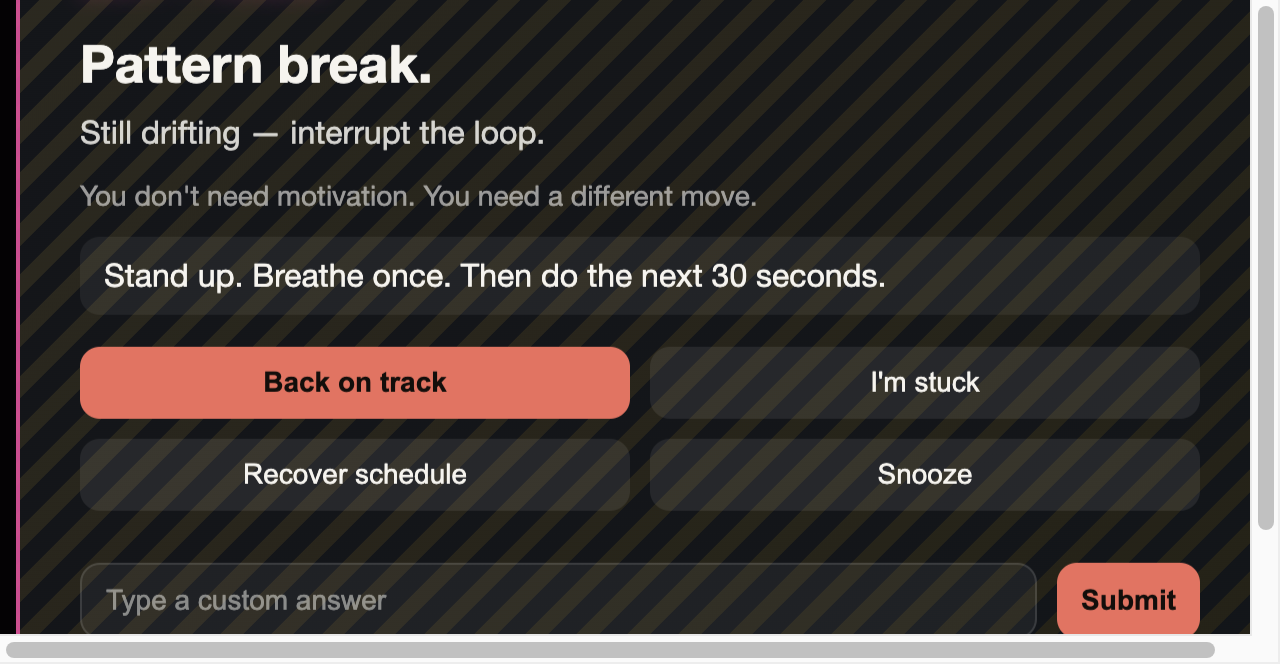
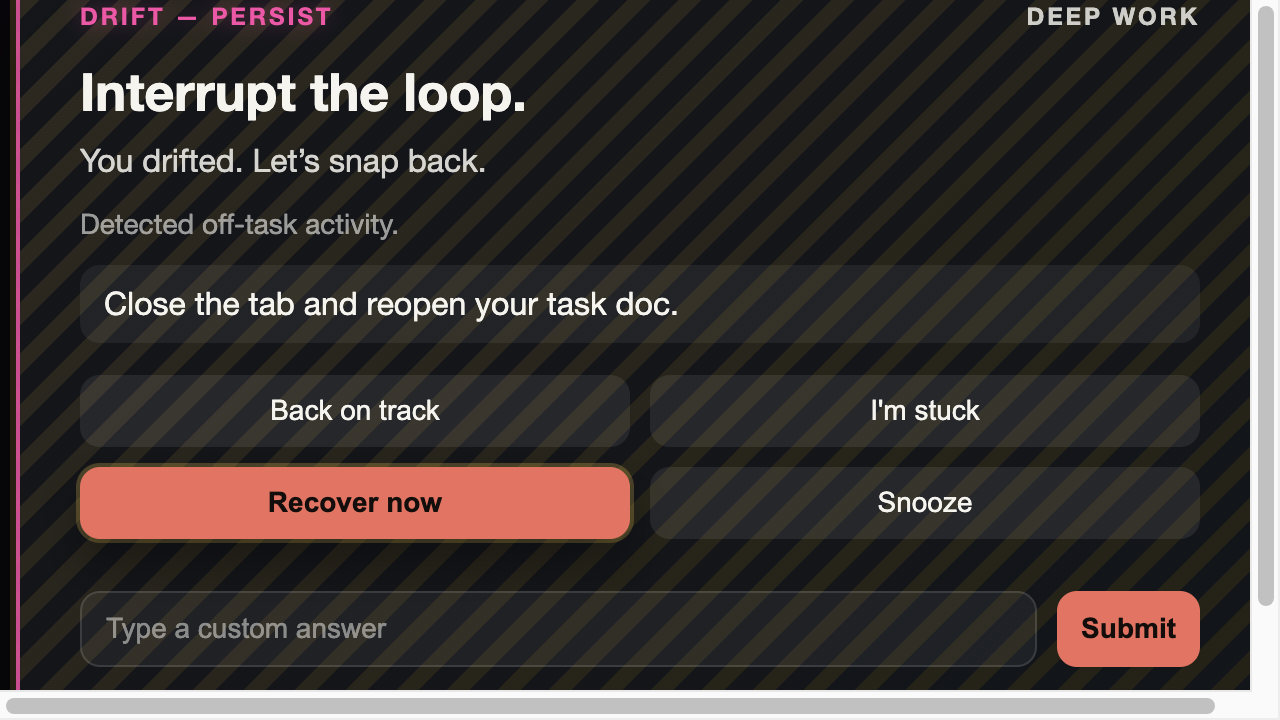
overlay: deterministic screenshots + DRIFT_PERSIST origin event capture

diff --git a/overlay/screenshot.js b/overlay/screenshot.js
@@ -34,13 +34,21 @@ async function main() {
 
   await win.loadFile(htmlPath);
 
+  // Ensure deterministic screenshots: no animations/transitions.
+  await win.webContents.insertCSS(`
+    *, *::before, *::after {
+      animation: none !important;
+      transition: none !important;
+    }
+  `);
+
   async function capture(name, payload) {
     // Give the DOM a moment to settle, then render the payload.
     await new Promise((r) => setTimeout(r, 50));
     win.webContents.send("overlay:show", payload);
 
-    // Allow any CSS animations to reach a stable frame.
-    await new Promise((r) => setTimeout(r, 250));
+    // Let layout/paint settle.
+    await new Promise((r) => setTimeout(r, 80));
 
     const image = await win.capturePage();
     fs.writeFileSync(path.join(OUT_DIR, name), image.toPNG());
@@ -65,6 +73,14 @@ async function main() {
   await capture("drift_persist.png", {
     ...common,
     event_type: "DRIFT_PERSIST",
+    headline: "Interrupt the loop."
+  });
+
+  await capture("drift_persist_pattern_break.png", {
+    ...common,
+    // Pattern-break should prefer the originating event type when provided.
+    source_event_type: "DRIFT_PERSIST",
+    event_type: "DRIFT_START",
     headline: "Interrupt the loop."
   });
 
